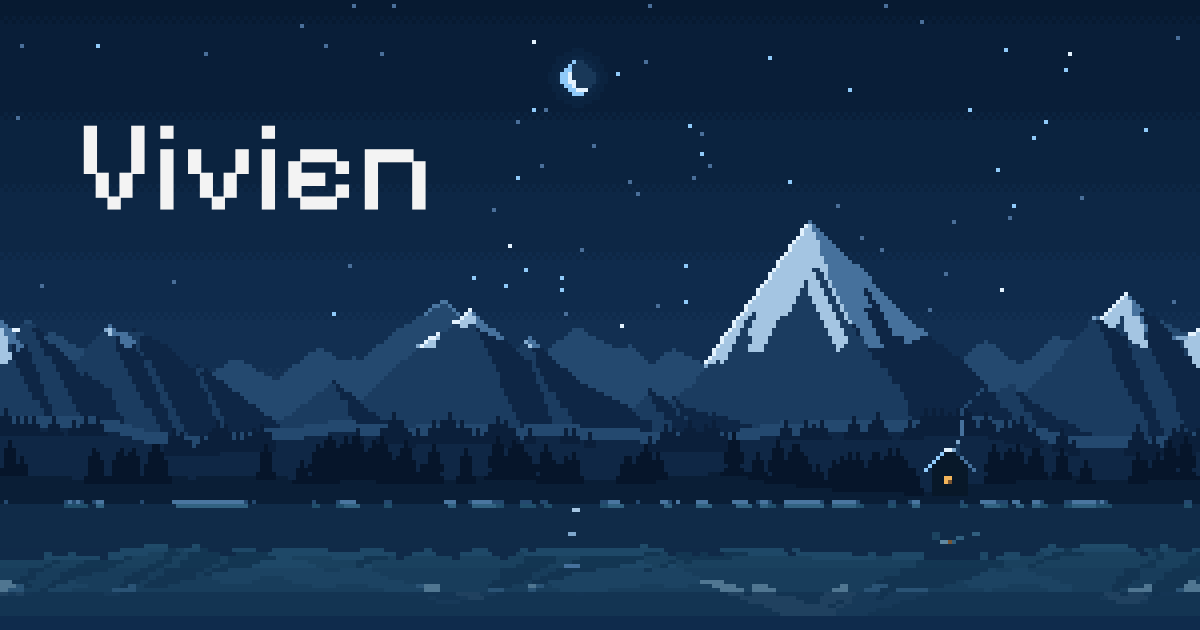
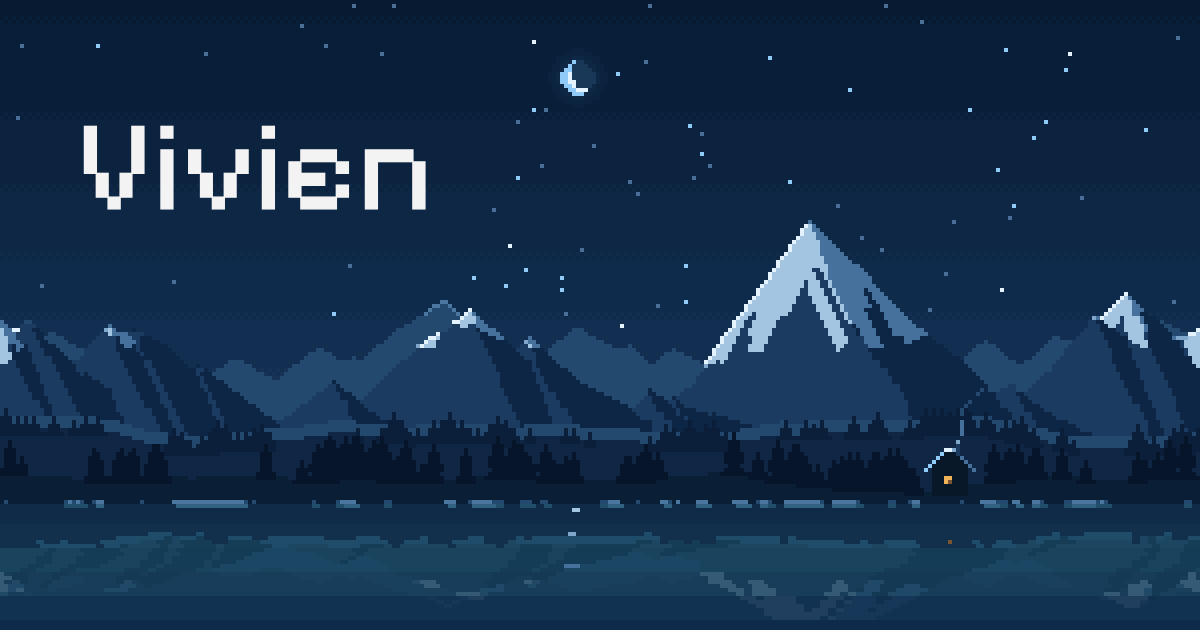
Even water: whole-number mirror squash, straight glade, soft calm line
Wide screens squash the mirror two or three rows to one instead of a
curved fold, so every row steps the same way and the range reads as a
reflection rather than a smear. The cabin reflects as dark shore, the
moon's glade is a straight column that stops before the calm line, and
the mirror fades out in five even bands ending at it, with no hard cut.

Claude-Session: https://claude.ai/code/session_01W1WJo8FCiKhhtBsWrrJKbP

diff --git a/scene.js b/scene.js
@@ -130,9 +130,8 @@
   // the fjord keeps a fixed, small palette like the rest of the scene: a few depth bands, and in
   // each band one colour per kind of thing reflected (dark shore, shaded rock, sky and lit rock,
   // haze, shaded snow, lit snow). A continuous blend would mint a new in-between colour for every pixel.
-  let waterBand = null, waterPal = null, waterK = null, waterWave = null, waterAmp = null, waterWob = null;
+  let waterBand = null, waterPal = null, waterK = null, waterWave = null, waterAmp = null, waterWob = null, waterCalm = 0.88;
   const NK = 6; // reflection classes, darkest first
-  const WATER_EDGES = [0, 0.14, 0.32, 0.5, 0.68, 0.86]; // the last band is the page colour itself
   function buildWater() {
     const depthRows = H - horizon;
     const REP = [C.hill, C.farShade, SKY[SKY.length - 1], C.haze, C.snowShade, C.snowLit];
@@ -143,11 +142,11 @@
     cls.set(pack(C.haze), 3);
     for (const c of [C.hazeSnow, C.snowShade, C.snowMid]) cls.set(pack(c), 4);
     for (const c of [C.snowLit, C.frost]) cls.set(pack(c), 5);
-    // the mirror is true to size at the shoreline, so the pines reflect as pines, and folds tighter
-    // with depth so the peaks still reach the water: source rows run u + a*u^2 above the horizon
-    const reach = Math.max(depthRows * 1.15, horizon * 0.6);
-    const a = (reach - depthRows) / (depthRows * depthRows);
-    const fold = (u) => u + a * u * u;
+    // the mirror is true to size where the fjord is deep; where it is shallow (wide screens) it is
+    // squashed by a whole number, two or three source rows to each water row, so the peaks still
+    // reach the water and every row steps the same way: no uneven row skips, no jagged smear
+    const squash = Math.max(1, Math.min(3, Math.round((horizon * 0.55) / depthRows)));
+    const fold = (u) => u * squash;
     // the mirror never changes, so what each water pixel reflects is worked out once: read in pixel
     // pairs from the static scene (stars and the moon never reflect; the moon has its own glade),
     // so a checker seam above reflects as one flat band; where the mirror folds several rows into
@@ -158,7 +157,11 @@
       const sy = Math.max(0, horizon - 1 - s0), span = Math.max(1, Math.min(sy + 1, s1 - s0));
       for (let x = 0; x < W; x++) {
         let best = 0;
+        // the cabin reflects as part of the dark shore: its one-pixel roof lines would only break
+        // into specks in the water, and its lamp has a reflection of its own
+        const inCabin = cabin && (x | 1) >= cabin.x0 && (x & ~1) <= cabin.x1;
         for (let r = 0; r < span; r++) {
+          if (inCabin && sy - r >= cabin.y0) continue;
           const v = cls.get(base[(sy - r) * W + (x & ~1)]);
           const kk = v === undefined ? 2 : v;
           if (kk > best) best = kk;
@@ -181,18 +184,25 @@
     // on portrait screens the name rests on the water: the mirror settles to calm water just
     // above it, so the letters never sit on reflected snow
     const calm = horizon < H * 0.7 && nameBox ? Math.max(0.3, Math.min(0.88, (nameBox.y0 - horizon) / depthRows)) : 0.88;
+    waterCalm = calm;
+    // the mirror steps down in five even bands that end exactly at the calm line, each a little
+    // fainter than the last, so it fades out rather than stopping on a hard edge; below the calm
+    // line plain water steps on into the page colour, the last band
+    const edges = [0, 0.16, 0.36, 0.58, 0.8].map((e) => e * calm), fades = [0.5, 0.42, 0.32, 0.21, 0.1];
+    if (calm < 0.8) { edges.push(calm, (calm + 0.86) / 2); fades.push(0, 0); }
+    edges.push(Math.max(calm, 0.86));
     waterBand = new Uint8Array(depthRows);
     for (let k = 0; k < depthRows; k++) {
       const d = k / depthRows;
       let b = 0;
-      while (b + 1 < WATER_EDGES.length && d >= WATER_EDGES[b + 1]) b++;
+      while (b + 1 < edges.length && d >= edges[b + 1]) b++;
       waterBand[k] = b;
     }
-    waterPal = new Uint32Array(WATER_EDGES.length * NK);
-    for (let b = 0; b < WATER_EDGES.length; b++) {
-      const last = b === WATER_EDGES.length - 1;
-      const d = last ? 1 : (WATER_EDGES[b] + WATER_EDGES[b + 1]) / 2;
-      const fade = 0.5 * (1 - smooth(calm * 0.55, calm, d));
+    waterPal = new Uint32Array(edges.length * NK);
+    for (let b = 0; b < edges.length; b++) {
+      const last = b === edges.length - 1;
+      const d = last ? 1 : (edges[b] + edges[b + 1]) / 2;
+      const fade = last ? 0 : fades[b];
       const tint = Math.pow(Math.max(0, 1 - d / 0.82), 0.6);
       REP.forEach((s, k) => {
         // the dark shore reflects darker than the sky does, so the water under the pines reads as
@@ -436,7 +446,7 @@
     // the cabin: dark timber, snow on the roof, one lit window
     const groundY = nearTop[cabinX];
     const bx = cabinX - 4, by = groundY - 5;
-    cabin = { wx: cabinX - 1, wy: by + 2, chimney: [bx + 6, by - 7] };
+    cabin = { wx: cabinX - 1, wy: by + 2, chimney: [bx + 6, by - 7], x0: bx - 2, x1: bx + 10, y0: by - 7 };
     for (let y = by; y <= groundY + 1; y++) for (let x = bx; x < bx + 9; x++) set(x, y, C.cabin);
     for (let k = 0; k < 5; k++) {
       for (let x = bx - 1 + k; x < bx + 10 - k; x++) set(x, by - 1 - k, C.cabin);
@@ -554,12 +564,12 @@
     // shore and widening toward the viewer as a glitter path does, paling with depth; the dashes
     // never blink, they only ride the swell of the row they sit on
     if (moon) {
-      const rows = Math.round(depthRows * 0.65);
+      const rows = Math.round(depthRows * Math.min(0.65, waterCalm * 0.9));
       for (let y = horizon + 1; y < horizon + rows; y += 2) {
         const d = (y - horizon) / rows;
         if (nRay(y * 2.3) < 0.3 + d * 0.4) continue;
         const len = 1 + Math.round(nRay(y * 5.7) * (1 + d * (1 + moon.r)));
-        const x0 = moon.x + waterWob[y - horizon] + Math.round((nRay(y * 1.3 + 40) - 0.5) * 2) - (len >> 1);
+        const x0 = moon.x + waterWob[y - horizon] - (len >> 1);
         const c = d < 0.25 ? P.snowLit : d < 0.6 ? P.snowMid : P.snowShade;
         for (let k = 0; k < len; k++) if (x0 + k >= 0 && x0 + k < W) buf[y * W + x0 + k] = c;
       }

diff --git a/index.html b/index.html
@@ -13,7 +13,7 @@
   <meta property="og:site_name" content="Vivien">
   <meta property="og:description" content="Mechanical engineer, formerly a musician and programmer.">
   <meta property="og:url" content="https://meowzerskittycat.github.io/">
-  <meta property="og:image" content="https://meowzerskittycat.github.io/og.png?v=962a8b93">
+  <meta property="og:image" content="https://meowzerskittycat.github.io/og.png?v=6281963c">
   <meta property="og:image:type" content="image/png">
   <meta property="og:image:width" content="1200">
   <meta property="og:image:height" content="630">

diff --git a/DESIGN.md b/DESIGN.md
@@ -196,7 +196,7 @@ Square and hard-edged throughout (`rounded.none`). Both canvases render with `im
 The page has no buttons, inputs, navigation, or cards, by product decision (no links). The recurring pieces are scene, type, the ledger, and pixel marks.
 
 ### Pixel Night Scene (signature)
-- **What:** a full-bleed canvas in the hero, drawn procedurally from fixed seeds so every visit shows the same place: stars, a crescent moon (its dark disc faintly visible by earthshine, inside a two-ring halo), a hazy back range with a clean one-pixel snow edge on its highest peaks, an alpine range with one tall horn (lit on its west faces, toward the moon), shouldered peaks, an uneven snowline whose lower edge breaks into tongues down the fall line (never a flat cut), rock ribs two pixels wide at a clean 1:2 step, and snow couloirs that only hang from a real snowcap, forested foothills edged with small distant spruce (tapering spires, close-set where the forest is dense, so the crest is a serrated forest edge), valley mist where the range's foot meets the foothills (a clean solid haze band, so the planes part), a pine shore with a faint broken snow rim along the waterline, one cabin with roof snow (lit on the west slope, shaded on the east), a lit window and a stone chimney a step lighter than the timber with its snow cap sitting on it, and the reflecting fjord: a mirror of the whole range, its rows folded tighter on wide screens (where the fjord is shallow) so the peaks and their snow still reach the water, fading into the page colour by the hero's foot. The sky is clear: no snow falls in the hero, so nothing crosses the name.
+- **What:** a full-bleed canvas in the hero, drawn procedurally from fixed seeds so every visit shows the same place: stars, a crescent moon (its dark disc faintly visible by earthshine, inside a two-ring halo), a hazy back range with a clean one-pixel snow edge on its highest peaks, an alpine range with one tall horn (lit on its west faces, toward the moon), shouldered peaks, an uneven snowline whose lower edge breaks into tongues down the fall line (never a flat cut), rock ribs two pixels wide at a clean 1:2 step, and snow couloirs that only hang from a real snowcap, forested foothills edged with small distant spruce (tapering spires, close-set where the forest is dense, so the crest is a serrated forest edge), valley mist where the range's foot meets the foothills (a clean solid haze band, so the planes part), a pine shore with a faint broken snow rim along the waterline, one cabin with roof snow (lit on the west slope, shaded on the east), a lit window and a stone chimney a step lighter than the timber with its snow cap sitting on it, and the reflecting fjord: a mirror of the whole range, its rows squashed two or three to one on wide screens (where the fjord is shallow) so the peaks and their snow still reach the water, fading into the page colour by the hero's foot. The sky is clear: no snow falls in the hero, so nothing crosses the name.
 - **Rendering:** low-resolution buffer (about 320 art pixels across on desktop) upscaled by an exact whole number (the canvas element is sized to W x scale, overhanging its box by under one art pixel), so every art pixel is the same size; the art scale is published to CSS as `--scene-px` (and as `--ui-px`, capped at 4px, for the icons, meter, band markers and row rules so they stay in proportion to the text), and the nameplate's padding is rounded to it so the name's pixels sit on the art's. Per frame, the sky's colours are precomputed per row and every colour the loops write is packed once, so each frame is little more than copying rows and the water.
 - **Stars:** three tiers: mostly dim, some ice, a few frost, and a rare frost star with a cross of dim light. They gather in a soft diagonal drift and thin toward the horizon, never touch each other, and keep two pixels clear of the terrain and the moon's halo; never in or right beside the name's letters, where a lone pixel would read as a flaw in the type. A twinkle dims a star one step; it never blinks out.
 - **Motion:** star twinkle, chimney smoke (its gaps climb with it, four rows a second), water ripple (a slow swell rolling toward the viewer in bands that thicken with depth; each band slides as one and never more than a pixel either way, as still water does, so the mirror never tears row by row), a short column of fixed lamp dashes under the window that ride the swell and cool from lamp to ember with depth, a cabin lamp that gutters one pane to ember for about a fifth of a second, roughly once every eight seconds, and the moon's glade (a straight column of fixed broken dashes beneath the moon, which never blink, narrow at the far shore and widening toward the viewer as a glitter path does, paling from lit to shaded snow with depth, riding the same swell as the water, never a solid column), stepped at 10 frames a second. The water fades fully into the page colour before the hero's edge, with no dither stripe. The shore canvas at the page foot keeps the snow falling at two depths, far flakes passing behind the pines, and runs only while it is on screen. It pauses when offscreen or the tab is hidden; with reduced motion it renders one still frame.
@@ -241,7 +241,7 @@ The page has no buttons, inputs, navigation, or cards, by product decision (no l
 - **Do** keep motion slow and stepped (10fps for the scene, `steps()` timing for CSS), pause it offscreen, and hold it still for reduced-motion users.
 - **Do** draw rules as rows of square pixel dots in ridge blue.
 - **Do** keep the water clean: the swell is its only motion and the glade and lamp dashes only ride it; never add glints, sparkles, drifting lines or per-pixel noise, which read as choppy or broken at this scale.
-- **Do** keep the fjord on a fixed palette: the water is six depth bands (the last one exactly the page colour), and each reflected pixel takes one of six colours per band by what it reflects (dark shore, shaded rock, sky and lit rock, haze, shaded snow, lit snow); what each water pixel reflects is worked out once, since the mirror never changes. Never blend reflections continuously; that mints dozens of one-off colours. The mirror is true to size at the shoreline and folds tighter with depth (source rows u + a·u²); on portrait screens it settles to calm water just above the name, so the letters never sit on reflected snow; and the pines reflect as a dark band and the peaks still reach the water; where it folds several rows into one, the brightest of them wins, so ribs and snow tongues never alias into specks. The dark shore reflects 1.8 times as strongly as the sky, so the water under the pines reads as their reflection.
+- **Do** keep the fjord on a fixed palette: the mirror steps down in five bands, each fainter than the last, that end exactly at the calm line, then plain water steps into a last band that is exactly the page colour, and each reflected pixel takes one of six colours per band by what it reflects (dark shore, shaded rock, sky and lit rock, haze, shaded snow, lit snow); what each water pixel reflects is worked out once, since the mirror never changes. Never blend reflections continuously; that mints dozens of one-off colours. The mirror is true to size where the fjord is deep; where it is shallow (wide screens) it is squashed by a whole number, two or three source rows to each water row, never a curve, so every row steps the same way and nothing smears; where rows merge, the brightest wins, so ribs and snow tongues never alias into specks. On portrait screens the calm line sits just above the name, so the letters never sit on reflected snow. The cabin reflects as dark shore (its one-pixel roof lines would only break into specks); its lamp has its own reflection. The moon's glade is a straight column and stops before the calm line. The dark shore reflects 1.8 times as strongly as the sky, so the water under the pines reads as their reflection.
 - **Do** keep ridgelines clean: the crest's ruggedness lives at the scale of shoulders and dips (low-frequency noise), so each stretch of slope keeps an even stair-step of one- and two-pixel runs that change gradually, never a column-by-column stutter; no one-column notches, a summit ends in a single tip pixel, the frost crest covers every pixel the sky touches from above or from the west so it runs unbroken down steep steps, and the light/shadow split starts exactly at the summit.
 - **Do** keep the snow free of orphans: a snow patch of six pixels or fewer, or a small patch that never reaches the ridge crest, is noise and takes the rock colour beside it; likewise a rock speck of three pixels or fewer walled in by snow takes the snow beside it.
 - **Do** light the terrain from the moon's side: lit faces and the pines' shadows agree with where the moon hangs. The pines stay clean dark silhouettes, with no snow or rim pixels on their tiers, which read as speckle in dense stands.
